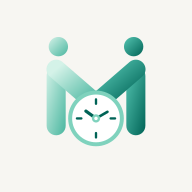
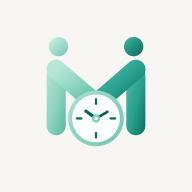
Brand mark: corrected-colors iteration
The owner's follow-up vector (correct-colors1) replaces the first pass:
same geometry, richer 3-stop gradients per element, gradient clock ring
and hands, refined tick marks. All four raster sizes regenerated from
it via the same sharp pipeline, and the inline BrandMark component
updated in lockstep — the header mark and the favicon must never drift
apart.

Changed region(s): [[0.2188, 0.2188, 0.375, 0.4062], [0.3438, 0.4688, 0.5312, 0.6562]]

diff --git a/src/components/icons.tsx b/src/components/icons.tsx
@@ -111,34 +111,48 @@ export function BuildingIcon({ size = 26, className }: IconProps) {
 // monoline set above it carries its own colours: it is the identity, not
 // an interface glyph, and must render identically everywhere.
 export function BrandMark({ size = 26, className }: IconProps) {
+  // Kept in lockstep with src/app/icon.svg ("correct-colors" iteration,
+  // 2026-09-03) — same geometry, richer 3-stop gradients per element.
   return (
     <svg viewBox="0 0 1024 1024" width={size} height={size} className={className} aria-hidden="true">
       <defs>
-        <linearGradient id="bm-l" x1="0" y1="0" x2="1" y2="1">
-          <stop stopColor="#D4F2E8" /><stop offset="1" stopColor="#49B69F" />
+        <linearGradient id="bm-lh" x1="0" y1="0" x2="1" y2="1">
+          <stop stopColor="#D7F2E8" /><stop offset="0.55" stopColor="#9EDBC9" /><stop offset="1" stopColor="#73C5AE" />
         </linearGradient>
-        <linearGradient id="bm-r" x1="0" y1="0" x2="1" y2="1">
-          <stop stopColor="#55C5B2" /><stop offset="1" stopColor="#006356" />
+        <linearGradient id="bm-lb" x1="0" y1="0" x2="1" y2="1">
+          <stop stopColor="#B8E7D8" /><stop offset="0.55" stopColor="#88D2BD" /><stop offset="1" stopColor="#58B79F" />
+        </linearGradient>
+        <linearGradient id="bm-rh" x1="0" y1="0" x2="1" y2="1">
+          <stop stopColor="#48B8A2" /><stop offset="0.5" stopColor="#228F7D" /><stop offset="1" stopColor="#0F6B5E" />
+        </linearGradient>
+        <linearGradient id="bm-rb" x1="0" y1="0" x2="1" y2="1">
+          <stop stopColor="#50BEA8" /><stop offset="0.55" stopColor="#289E8C" /><stop offset="1" stopColor="#0C6D60" />
+        </linearGradient>
+        <linearGradient id="bm-ring" x1="0" y1="0" x2="1" y2="1">
+          <stop stopColor="#A9E0CF" /><stop offset="1" stopColor="#70C6AE" />
+        </linearGradient>
+        <linearGradient id="bm-hand" x1="0" y1="0" x2="1" y2="1">
+          <stop stopColor="#0B6A5D" /><stop offset="1" stopColor="#005548" />
         </linearGradient>
       </defs>
-      <circle cx="255" cy="175" r="66" fill="url(#bm-l)" />
-      <circle cx="769" cy="175" r="66" fill="url(#bm-r)" />
-      <rect x="175" y="310" width="130" height="470" rx="65" fill="url(#bm-l)" />
-      <rect x="719" y="310" width="130" height="470" rx="65" fill="url(#bm-r)" />
-      <path d="M240 330L500 555" fill="none" stroke="url(#bm-l)" strokeWidth="132" strokeLinecap="round" />
-      <path d="M784 330L524 555" fill="none" stroke="url(#bm-r)" strokeWidth="132" strokeLinecap="round" />
-      <circle cx="512" cy="665" r="190" fill="#7FD2BD" />
-      <circle cx="512" cy="665" r="163" fill="#fff" />
-      <g stroke="#006356" strokeWidth="16" strokeLinecap="round">
-        <path d="M512 535v30" /><path d="M512 765v30" />
-        <path d="M382 665h30" /><path d="M612 665h30" />
+      <circle cx="255" cy="175" r="66" fill="url(#bm-lh)" />
+      <circle cx="769" cy="175" r="66" fill="url(#bm-rh)" />
+      <rect x="175" y="310" width="130" height="470" rx="65" fill="url(#bm-lb)" />
+      <rect x="719" y="310" width="130" height="470" rx="65" fill="url(#bm-rb)" />
+      <path d="M240 330 L500 555" fill="none" stroke="url(#bm-lb)" strokeWidth="132" strokeLinecap="round" />
+      <path d="M784 330 L524 555" fill="none" stroke="url(#bm-rb)" strokeWidth="132" strokeLinecap="round" />
+      <circle cx="512" cy="665" r="190" fill="url(#bm-ring)" />
+      <circle cx="512" cy="665" r="163" fill="#FFFFFF" />
+      <g stroke="#0C6D60" strokeWidth="16" strokeLinecap="round">
+        <path d="M512 535 V565" /><path d="M512 765 V795" />
+        <path d="M382 665 H412" /><path d="M612 665 H642" />
       </g>
-      <g stroke="#006356" strokeLinecap="round">
+      <g stroke="url(#bm-hand)" strokeLinecap="round">
         <path d="M512 665 L443 615" strokeWidth="22" />
         <path d="M512 665 L590 620" strokeWidth="18" />
       </g>
-      <circle cx="512" cy="665" r="28" fill="#7FD2BD" />
-      <circle cx="512" cy="665" r="12" fill="#fff" />
+      <circle cx="512" cy="665" r="28" fill="#79CFB8" />
+      <circle cx="512" cy="665" r="12" fill="#FFFFFF" />
     </svg>
   );
 }
